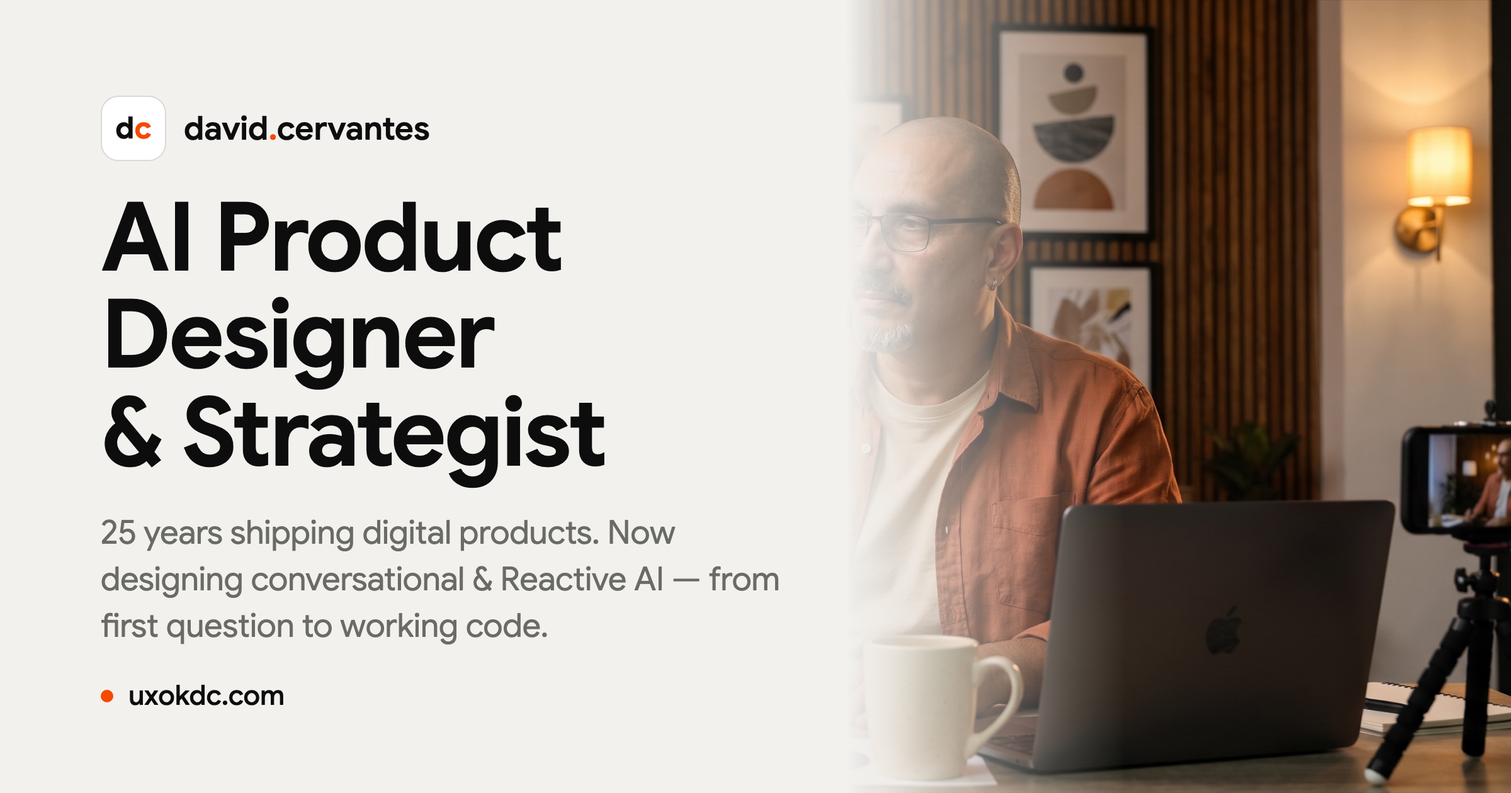
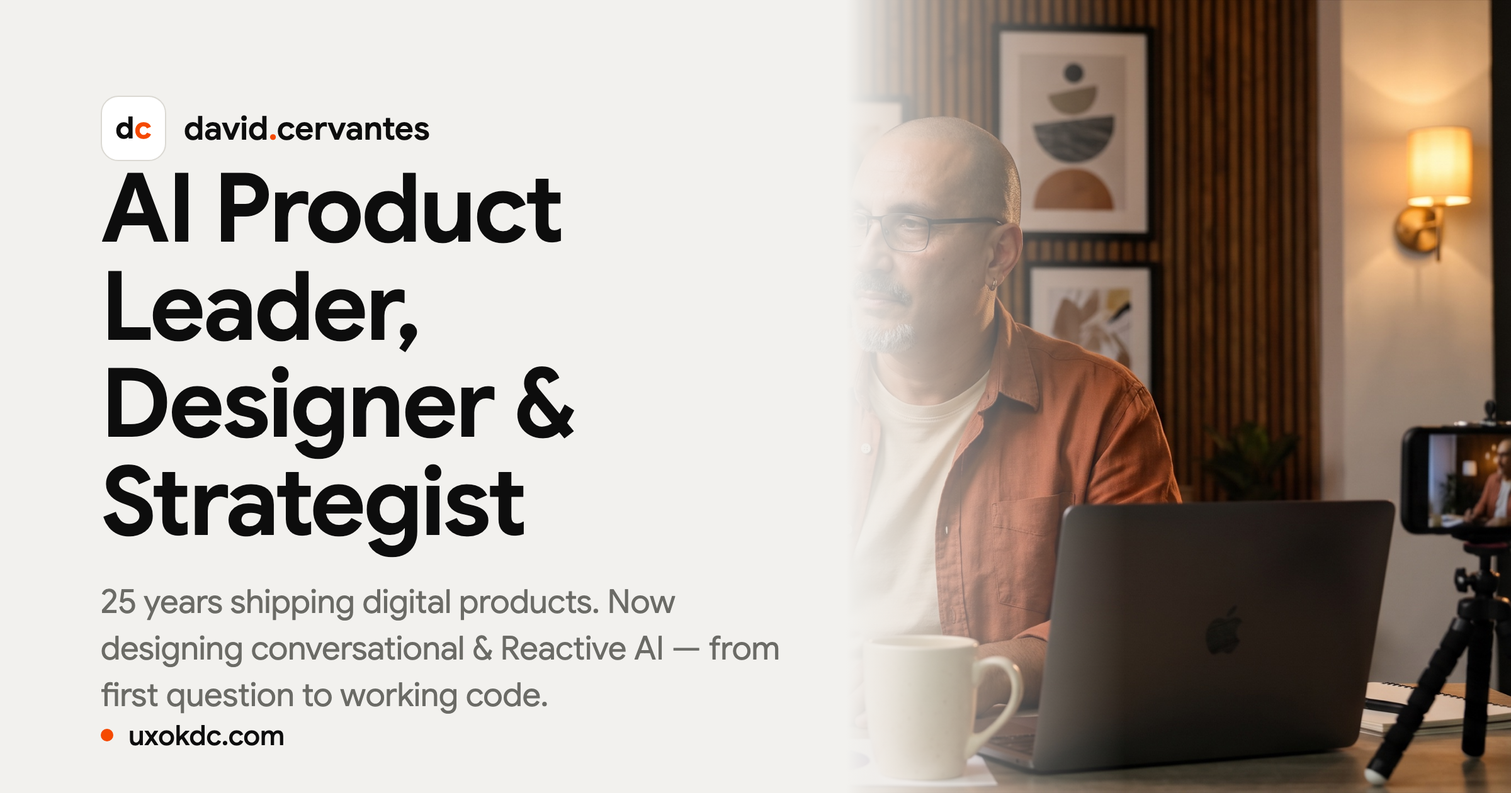
Retitle: AI Product Leader, Designer & Strategist across content, SEO, OG cards
New title applied to all page copy (wordmarks, hero labels), SEO titles/
descriptions, JSON-LD jobTitle, OG card images, and llms.txt. Historical
role entries in Experience (e.g. 'UX Strategist & Digital Producer') left
intact — those are past positions, not the current title.

diff --git a/About.html b/About.html
@@ -4,8 +4,8 @@
 <meta charset="utf-8">
 <meta name="viewport" content="width=device-width, initial-scale=1">
 <!-- SEO:start (generated — do not hand-edit; run ._seo_inject.mjs) -->
-<title>About — David Cervantes · AI Product Designer &amp; Strategist</title>
-<meta name="description" content="Product designer and strategist with 25 years turning complex products into things people actually want to use. Now designing and building AI-native. Available for select engagements.">
+<title>About — David Cervantes · AI Product Leader, Designer &amp; Strategist</title>
+<meta name="description" content="AI product leader, designer and strategist with 25 years turning complex products into things people actually want to use. Now designing and building AI-native. Available for select engagements.">
 <meta name="author" content="David Cervantes">
 <meta name="robots" content="index, follow, max-snippet:-1, max-image-preview:large, max-video-preview:-1">
 <meta name="theme-color" content="#F2F1EE">
@@ -14,22 +14,22 @@
 <meta property="og:type" content="profile">
 <meta property="og:site_name" content="David Cervantes">
 <meta property="og:locale" content="en_US">
-<meta property="og:title" content="About — David Cervantes · AI Product Designer &amp; Strategist">
-<meta property="og:description" content="Product designer and strategist with 25 years turning complex products into things people actually want to use. Now designing and building AI-native. Available for select engagements.">
+<meta property="og:title" content="About — David Cervantes · AI Product Leader, Designer &amp; Strategist">
+<meta property="og:description" content="AI product leader, designer and strategist with 25 years turning complex products into things people actually want to use. Now designing and building AI-native. Available for select engagements.">
 <meta property="og:url" content="https://www.uxokdc.com/About">
 <meta property="og:image" content="https://www.uxokdc.com/assets/og/home.png">
 <meta property="og:image:secure_url" content="https://www.uxokdc.com/assets/og/home.png">
 <meta property="og:image:type" content="image/png">
 <meta property="og:image:width" content="2400">
 <meta property="og:image:height" content="1260">
-<meta property="og:image:alt" content="About — David Cervantes · AI Product Designer &amp; Strategist">
+<meta property="og:image:alt" content="About — David Cervantes · AI Product Leader, Designer &amp; Strategist">
 <meta name="twitter:card" content="summary_large_image">
 <meta name="twitter:site" content="@uxokdc">
 <meta name="twitter:creator" content="@uxokdc">
-<meta name="twitter:title" content="About — David Cervantes · AI Product Designer &amp; Strategist">
-<meta name="twitter:description" content="Product designer and strategist with 25 years turning complex products into things people actually want to use. Now designing and building AI-native. Available for select engagements.">
+<meta name="twitter:title" content="About — David Cervantes · AI Product Leader, Designer &amp; Strategist">
+<meta name="twitter:description" content="AI product leader, designer and strategist with 25 years turning complex products into things people actually want to use. Now designing and building AI-native. Available for select engagements.">
 <meta name="twitter:image" content="https://www.uxokdc.com/assets/og/home.png">
-<meta name="twitter:image:alt" content="About — David Cervantes · AI Product Designer &amp; Strategist">
+<meta name="twitter:image:alt" content="About — David Cervantes · AI Product Leader, Designer &amp; Strategist">
 <!-- SEO:end -->
 <script type="application/ld+json">
 {
@@ -38,7 +38,7 @@
   "name": "David Cervantes",
   "url": "https://www.uxokdc.com",
   "image": "https://www.uxokdc.com/assets/david.cervantes.jpg",
-  "jobTitle": "AI Product Designer & Strategist",
+  "jobTitle": "AI Product Leader, Designer & Strategist",
   "description": "AI-native product design and build across fintech, healthcare, real estate, construction, and emerging tech. 25 years of experience, now focused on conversational AI, Reactive AI, and Intent-Centered Design.",
   "email": "uxokdc@gmail.com",
   "telephone": "+1-941-993-9125",
@@ -111,7 +111,7 @@ body{margin:0;background:#F2F1EE;--font-display:'Google Sans','Outfit',ui-sans-s
   <div style="display:flex;align-items:flex-start;gap:clamp(18px,2.4vw,34px);max-width:1320px;animation:rise 0.9s ease-out both">
     <div style="display:flex;flex-direction:column;gap:clamp(24px,3vw,42px)">
       <h1 style="margin:0;font-family:var(--font-display);font-weight:600;font-size:clamp(44px,7.6vw,116px);line-height:1.02;letter-spacing:-0.03em;color:#8A8A85;text-wrap:balance">From interfaces to <span style="color:#0D0D0D">intelligent systems<span style="color:#F54900">.</span></span></h1>
-      <p style="margin:0;max-width:660px;font:400 clamp(17px,1.6vw,22px)/1.55 var(--font-sans);color:#3A3935">Product designer, user advocate, strategist. 25 years turning complex products into something people actually use. Now designing AI-native, end to end.</p>
+      <p style="margin:0;max-width:660px;font:400 clamp(17px,1.6vw,22px)/1.55 var(--font-sans);color:#3A3935">AI product leader, designer, and strategist. 25 years turning complex products into something people actually use. Now designing AI-native, end to end.</p>
     </div>
   </div>
 </div>
@@ -166,7 +166,7 @@ body{margin:0;background:#F2F1EE;--font-display:'Google Sans','Outfit',ui-sans-s
 <!-- ── FOOTER ── -->
 <div style="position:relative;background:#0D0D0D;color:#F2F1EE;padding:48px;overflow:hidden" data-screen-label="Footer">
   <div style="display:flex;justify-content:space-between;align-items:flex-end;flex-wrap:wrap;gap:24px 40px">
-    <div style="font-family:var(--font-display);font-weight:600;font-size:18px;color:#F2F1EE">david<span style="color:#F54900">.</span>cervantes <span style="font-weight:500;color:#8A8A85;font-size:15px;margin-left:12px">AI product designer & strategist</span></div>
+    <div style="font-family:var(--font-display);font-weight:600;font-size:18px;color:#F2F1EE">david<span style="color:#F54900">.</span>cervantes <span style="font-weight:500;color:#8A8A85;font-size:15px;margin-left:12px">AI product leader, designer & strategist</span></div>
     <div style="display:flex;align-items:center;gap:8px;font:300 15px var(--font-sans);color:#8A8A85"><span style="width:7px;height:7px;border-radius:50%;background:#2D9973;display:inline-block"></span>Available for select contract engagements</div>
   </div>
 </div>

diff --git a/Portfolio Explorations.html b/Portfolio Explorations.html
@@ -5,7 +5,7 @@
 <meta name="viewport" content="width=device-width, initial-scale=1">
 <!-- SEO:start (generated — do not hand-edit; run ._seo_inject.mjs) -->
 <title>Portfolio Explorations — David Cervantes</title>
-<meta name="description" content="Visual explorations, interface studies, and design experiments by David Cervantes — AI product designer &amp; strategist.">
+<meta name="description" content="Visual explorations, interface studies, and design experiments by David Cervantes — AI product leader, designer &amp; strategist.">
 <meta name="author" content="David Cervantes">
 <meta name="robots" content="index, follow, max-snippet:-1, max-image-preview:large, max-video-preview:-1">
 <meta name="theme-color" content="#F2F1EE">
@@ -15,7 +15,7 @@
 <meta property="og:site_name" content="David Cervantes">
 <meta property="og:locale" content="en_US">
 <meta property="og:title" content="Portfolio Explorations — David Cervantes">
-<meta property="og:description" content="Visual explorations, interface studies, and design experiments by David Cervantes — AI product designer &amp; strategist.">
+<meta property="og:description" content="Visual explorations, interface studies, and design experiments by David Cervantes — AI product leader, designer &amp; strategist.">
 <meta property="og:url" content="https://www.uxokdc.com/Portfolio%20Explorations">
 <meta property="og:image" content="https://www.uxokdc.com/assets/og/home.png">
 <meta property="og:image:secure_url" content="https://www.uxokdc.com/assets/og/home.png">
@@ -27,7 +27,7 @@
 <meta name="twitter:site" content="@uxokdc">
 <meta name="twitter:creator" content="@uxokdc">
 <meta name="twitter:title" content="Portfolio Explorations — David Cervantes">
-<meta name="twitter:description" content="Visual explorations, interface studies, and design experiments by David Cervantes — AI product designer &amp; strategist.">
+<meta name="twitter:description" content="Visual explorations, interface studies, and design experiments by David Cervantes — AI product leader, designer &amp; strategist.">
 <meta name="twitter:image" content="https://www.uxokdc.com/assets/og/home.png">
 <meta name="twitter:image:alt" content="Portfolio Explorations — David Cervantes">
 <script type="application/ld+json">
@@ -36,7 +36,7 @@
   "@type": "CollectionPage",
   "name": "Portfolio Explorations — David Cervantes",
   "url": "https://www.uxokdc.com/Portfolio%20Explorations",
-  "description": "Visual explorations, interface studies, and design experiments by David Cervantes — AI product designer & strategist.",
+  "description": "Visual explorations, interface studies, and design experiments by David Cervantes — AI product leader, designer & strategist.",
   "author": {
     "@type": "Person",
     "name": "David Cervantes",
@@ -108,7 +108,7 @@ body{margin:0;background:#e9e7e2;font-family:system-ui,sans-serif}
       </div>
       <div style="text-align:right">
         <div style="font-family:var(--font-display);font-weight:600;font-size:186px;line-height:0.9;letter-spacing:-0.035em;color:#F2F1EE">Cervantes</div>
-        <div style="font:500 20px var(--font-display);color:#F2F1EE;margin-top:16px">Senior Product Designer <span style="color:#8A8A85">2026</span></div>
+        <div style="font:500 20px var(--font-display);color:#F2F1EE;margin-top:16px">AI Product Leader, Designer & Strategist <span style="color:#8A8A85">2026</span></div>
       </div>
     </div>
   </div>
@@ -217,7 +217,7 @@ body{margin:0;background:#e9e7e2;font-family:system-ui,sans-serif}
     <div style="display:flex;justify-content:space-between;align-items:flex-end">
       <div>
         <div style="font-family:var(--font-display);font-weight:600;font-size:170px;line-height:0.9;letter-spacing:-0.035em;color:#F2F1EE">David</div>
-        <div style="font:500 17px var(--font-display);color:#8A8A85;margin-top:20px">Senior Product Designer <span style="color:#F2F1EE">2026</span></div>
+        <div style="font:500 17px var(--font-display);color:#8A8A85;margin-top:20px">AI Product Leader, Designer & Strategist <span style="color:#F2F1EE">2026</span></div>
       </div>
       <div style="text-align:right">
         <div style="font-family:var(--font-display);font-weight:600;font-size:170px;line-height:0.9;letter-spacing:-0.035em;color:#F2F1EE">Cervantes</div>
@@ -264,7 +264,7 @@ body{margin:0;background:#e9e7e2;font-family:system-ui,sans-serif}
   <header style="padding:88px 48px 64px" data-screen-label="1a hero">
     <div style="display:flex;justify-content:space-between;align-items:flex-end;gap:40px">
       <div>
-        <div style="font:500 11px var(--font-display);text-transform:uppercase;letter-spacing:0.12em;color:#8A8A85;margin-bottom:20px">Product designer &amp; UX strategist — remote, worldwide</div>
+        <div style="font:500 11px var(--font-display);text-transform:uppercase;letter-spacing:0.12em;color:#8A8A85;margin-bottom:20px">AI Product Leader, Designer &amp; Strategist — remote, worldwide</div>
         <h1 style="margin:0;font-family:var(--font-display);font-weight:600;font-size:148px;line-height:0.95;letter-spacing:-0.03em">David</h1>
         <h1 style="margin:0;font-family:var(--font-display);font-weight:600;font-size:148px;line-height:0.95;letter-spacing:-0.03em;padding-left:120px">Cervantes<span style="color:#F54900">.</span></h1>
       </div>
@@ -384,7 +384,7 @@ body{margin:0;background:#e9e7e2;font-family:system-ui,sans-serif}
       </sc-if>
     </div>
     <div style="font-family:var(--font-display);font-weight:600;font-size:150px;line-height:0.95;letter-spacing:-0.03em;color:#F2F1EE;margin:24px 0 32px">David<br>Cervantes<span style="color:#F54900">.</span></div>
-    <div style="display:flex;justify-content:space-between;font:300 12px var(--font-sans);color:#8A8A85"><span>Product designer &amp; UX strategist — 2026</span><span>Made with care, no noise.</span></div>
+    <div style="display:flex;justify-content:space-between;font:300 12px var(--font-sans);color:#8A8A85"><span>AI Product Leader, Designer &amp; Strategist — 2026</span><span>Made with care, no noise.</span></div>
   </footer>
 
 </div>

diff --git a/index.html b/index.html
@@ -4,7 +4,7 @@
 <meta charset="utf-8">
 <meta name="viewport" content="width=device-width, initial-scale=1">
 <!-- SEO:start (generated — do not hand-edit; run ._seo_inject.mjs) -->
-<title>David Cervantes — AI Product Designer &amp; Strategist</title>
+<title>David Cervantes — AI Product Leader, Designer &amp; Strategist</title>
 <meta name="description" content="25 years designing digital products — from interfaces to AI-native systems. Product strategy, UX research, design systems, and working code.">
 <meta name="author" content="David Cervantes">
 <meta name="robots" content="index, follow, max-snippet:-1, max-image-preview:large, max-video-preview:-1">
@@ -14,7 +14,7 @@
 <meta property="og:type" content="website">
 <meta property="og:site_name" content="David Cervantes">
 <meta property="og:locale" content="en_US">
-<meta property="og:title" content="David Cervantes — AI Product Designer &amp; Strategist">
+<meta property="og:title" content="David Cervantes — AI Product Leader, Designer &amp; Strategist">
 <meta property="og:description" content="25 years designing digital products — from interfaces to AI-native systems. Product strategy, UX research, design systems, and working code.">
 <meta property="og:url" content="https://www.uxokdc.com/">
 <meta property="og:image" content="https://www.uxokdc.com/assets/og/home.png">
@@ -22,14 +22,14 @@
 <meta property="og:image:type" content="image/png">
 <meta property="og:image:width" content="2400">
 <meta property="og:image:height" content="1260">
-<meta property="og:image:alt" content="David Cervantes — AI Product Designer &amp; Strategist">
+<meta property="og:image:alt" content="David Cervantes — AI Product Leader, Designer &amp; Strategist">
 <meta name="twitter:card" content="summary_large_image">
 <meta name="twitter:site" content="@uxokdc">
 <meta name="twitter:creator" content="@uxokdc">
-<meta name="twitter:title" content="David Cervantes — AI Product Designer &amp; Strategist">
+<meta name="twitter:title" content="David Cervantes — AI Product Leader, Designer &amp; Strategist">
 <meta name="twitter:description" content="25 years designing digital products — from interfaces to AI-native systems. Product strategy, UX research, design systems, and working code.">
 <meta name="twitter:image" content="https://www.uxokdc.com/assets/og/home.png">
-<meta name="twitter:image:alt" content="David Cervantes — AI Product Designer &amp; Strategist">
+<meta name="twitter:image:alt" content="David Cervantes — AI Product Leader, Designer &amp; Strategist">
 <script type="application/ld+json">
 {
   "@context": "https://schema.org",
@@ -37,7 +37,7 @@
   "name": "David Cervantes",
   "url": "https://www.uxokdc.com",
   "image": "https://www.uxokdc.com/assets/og/home.png",
-  "jobTitle": "AI Product Designer & Strategist",
+  "jobTitle": "AI Product Leader, Designer & Strategist",
   "description": "25 years designing digital products — from interfaces to AI-native systems. Product strategy, UX research, design systems, and working code.",
   "email": "uxokdc@gmail.com",
   "sameAs": [
@@ -233,7 +233,7 @@ body{margin:0;background:#F2F1EE;--font-display:'Google Sans','Outfit',ui-sans-s
 <!-- ── FOOTER ── -->
 <div style="position:relative;background:#0D0D0D;color:#F2F1EE;padding:48px;overflow:hidden" data-screen-label="Footer">
   <div style="display:flex;justify-content:space-between;align-items:flex-end;flex-wrap:wrap;gap:24px 40px">
-    <div style="font-family:var(--font-display);font-weight:600;font-size:18px;color:#F2F1EE;line-height:1.4">david<span style="color:#F54900">.</span>cervantes<br><span style="font-weight:500;color:#8A8A85;font-size:15px">AI product designer & strategist</span></div>
+    <div style="font-family:var(--font-display);font-weight:600;font-size:18px;color:#F2F1EE;line-height:1.4">david<span style="color:#F54900">.</span>cervantes<br><span style="font-weight:500;color:#8A8A85;font-size:15px">AI product leader, designer & strategist</span></div>
     <sc-if value="{{ showAvailability }}" hint-placeholder-val="{{ true }}">
       <div style="display:flex;align-items:center;gap:8px;font:300 15px var(--font-sans);color:#8A8A85"><span style="width:7px;height:7px;border-radius:50%;background:#2D9973;display:inline-block"></span>Available for select contract engagements</div>
     </sc-if>
@@ -246,7 +246,7 @@ class Component extends DCLogic {
 
   static LINES = [
     { text: ["AI-native", "products.", "End to end."], big: true },
-    { text: "AI product designer + strategist. 25 years shipping. Now designing conversational and Reactive AI — from first question to working code.", big: false }
+    { text: "AI product leader, designer & strategist. 25 years shipping. Now designing conversational and Reactive AI — from first question to working code.", big: false }
   ];
 
   componentDidMount() {

diff --git a/Experience.html b/Experience.html
@@ -37,7 +37,7 @@
   "name": "David Cervantes",
   "url": "https://www.uxokdc.com",
   "image": "https://www.uxokdc.com/assets/og/home.png",
-  "jobTitle": "AI Product Designer & Strategist",
+  "jobTitle": "AI Product Leader, Designer & Strategist",
   "description": "Career timeline: design leadership across AI, SaaS, e-commerce, fintech, healthcare, and enterprise — from IC to strategy over 25 years.",
   "email": "uxokdc@gmail.com",
   "sameAs": [
@@ -105,7 +105,7 @@ body{margin:0;background:#F2F1EE;--font-display:'Google Sans','Outfit',ui-sans-s
   <article style="display:grid;grid-template-columns:200px 1fr;gap:clamp(24px,4vw,64px);padding:clamp(38px,4.5vw,60px) 0;border-top:0.5px solid #D8D6D0;animation:rise 0.7s ease-out both;animation-timeline:view();animation-range:entry 0% entry 40%">
     <div style="font:500 15px var(--font-sans);color:#8A8A85">2023 — Present</div>
     <div style="display:flex;flex-direction:column;align-items:flex-end;text-align:right;gap:16px">
-      <h2 style="margin:0;font-family:var(--font-display);font-weight:600;font-size:clamp(22px,2.5vw,33px);line-height:1.1;letter-spacing:-0.01em;color:#0D0D0D">AI Product Designer &amp; Strategist <span style="color:#8A8A85;font-weight:500">— Independent practice</span></h2>
+      <h2 style="margin:0;font-family:var(--font-display);font-weight:600;font-size:clamp(22px,2.5vw,33px);line-height:1.1;letter-spacing:-0.01em;color:#0D0D0D">AI Product Leader, Designer &amp; Strategist <span style="color:#8A8A85;font-weight:500">— Independent practice</span></h2>
       <p style="margin:0;max-width:520px;font:400 clamp(15px,1.4vw,18px)/1.55 var(--font-sans);color:#8A8A85">AI-native product design and build across fintech, real estate, construction, travel, and blockchain — problem definition through working prototypes, on an AI-assisted toolchain.</p>
     </div>
   </article>
@@ -191,7 +191,7 @@ body{margin:0;background:#F2F1EE;--font-display:'Google Sans','Outfit',ui-sans-s
 <!-- ── FOOTER ── -->
 <div style="position:relative;background:#0D0D0D;color:#F2F1EE;padding:48px;overflow:hidden" data-screen-label="Footer">
   <div style="display:flex;justify-content:space-between;align-items:flex-end;flex-wrap:wrap;gap:24px 40px">
-    <div style="font-family:var(--font-display);font-weight:600;font-size:18px;color:#F2F1EE">david<span style="color:#F54900">.</span>cervantes <span style="font-weight:500;color:#8A8A85;font-size:15px;margin-left:12px">AI product designer & strategist</span></div>
+    <div style="font-family:var(--font-display);font-weight:600;font-size:18px;color:#F2F1EE">david<span style="color:#F54900">.</span>cervantes <span style="font-weight:500;color:#8A8A85;font-size:15px;margin-left:12px">AI product leader, designer & strategist</span></div>
     <div style="display:flex;align-items:center;gap:8px;font:300 15px var(--font-sans);color:#8A8A85"><span style="width:7px;height:7px;border-radius:50%;background:#2D9973;display:inline-block"></span>Available for select contract engagements</div>
   </div>
 </div>

diff --git a/support.js b/support.js
@@ -169,13 +169,13 @@
 
   const PAGE_META = {
     'index.html': {
-      title: 'David Cervantes — AI Product Designer & Strategist',
+      title: 'David Cervantes — AI Product Leader, Designer & Strategist',
       description: '25 years designing digital products — from interfaces to AI-native systems. Product strategy, UX research, design systems, and working code.',
       type: 'website',
     },
     'About.html': {
       title: 'About — David Cervantes',
-      description: 'Product designer and strategist with 25 years turning complex products into things people actually want to use. Now designing and building AI-native.',
+      description: 'AI product leader, designer and strategist with 25 years turning complex products into things people actually want to use. Now designing and building AI-native.',
       type: 'profile',
     },
     'Experience.html': {
@@ -308,7 +308,7 @@
       '@type': 'Person',
       name: AUTHOR,
       url: SITE_ORIGIN,
-      jobTitle: 'AI Product Designer & Strategist',
+      jobTitle: 'AI Product Leader, Designer & Strategist',
       description: '25 years designing digital products — from interfaces to AI-native systems.',
       email: 'uxokdc@gmail.com',
       sameAs: [
@@ -328,7 +328,7 @@
       name: 'David Cervantes — Portfolio',
       url: SITE_ORIGIN,
       author: { '@type': 'Person', name: AUTHOR },
-      description: 'Portfolio of David Cervantes, AI product designer and strategist.',
+      description: 'Portfolio of David Cervantes, AI product leader, designer and strategist.',
     };
 
     const breadcrumbLD = {

diff --git a/Construct AI Case Study.html b/Construct AI Case Study.html
@@ -209,7 +209,7 @@ body{margin:0;background:#F2F1EE;--font-display:'Google Sans','Outfit',ui-sans-s
 <!-- ── FOOTER ── -->
 <div style="position:relative;background:#0D0D0D;color:#F2F1EE;padding:48px;overflow:hidden" data-screen-label="Footer">
   <div style="display:flex;justify-content:space-between;align-items:flex-end;flex-wrap:wrap;gap:24px 40px">
-    <div style="font-family:var(--font-display);font-weight:600;font-size:18px;color:#F2F1EE">david<span style="color:#F54900">.</span>cervantes <span style="font-weight:500;color:#8A8A85;font-size:15px;margin-left:12px">AI product designer &amp; strategist</span></div>
+    <div style="font-family:var(--font-display);font-weight:600;font-size:18px;color:#F2F1EE">david<span style="color:#F54900">.</span>cervantes <span style="font-weight:500;color:#8A8A85;font-size:15px;margin-left:12px">AI product leader, designer &amp; strategist</span></div>
     <div style="display:flex;align-items:center;gap:8px;font:300 15px var(--font-sans);color:#8A8A85"><span style="width:7px;height:7px;border-radius:50%;background:#2D9973;display:inline-block" aria-hidden="true"></span>Available for select contract engagements</div>
   </div>
 </div>

diff --git a/TintoProps Case Study.html b/TintoProps Case Study.html
@@ -209,7 +209,7 @@ body{margin:0;background:#F2F1EE;--font-display:'Google Sans','Outfit',ui-sans-s
 <!-- ── FOOTER ── -->
 <div style="position:relative;background:#0D0D0D;color:#F2F1EE;padding:48px;overflow:hidden" data-screen-label="Footer">
   <div style="display:flex;justify-content:space-between;align-items:flex-end;flex-wrap:wrap;gap:24px 40px">
-    <div style="font-family:var(--font-display);font-weight:600;font-size:18px;color:#F2F1EE">david<span style="color:#F54900">.</span>cervantes <span style="font-weight:500;color:#8A8A85;font-size:15px;margin-left:12px">AI product designer &amp; strategist</span></div>
+    <div style="font-family:var(--font-display);font-weight:600;font-size:18px;color:#F2F1EE">david<span style="color:#F54900">.</span>cervantes <span style="font-weight:500;color:#8A8A85;font-size:15px;margin-left:12px">AI product leader, designer &amp; strategist</span></div>
     <div style="display:flex;align-items:center;gap:8px;font:300 15px var(--font-sans);color:#8A8A85"><span style="width:7px;height:7px;border-radius:50%;background:#2D9973;display:inline-block" aria-hidden="true"></span>Available for select contract engagements</div>
   </div>
 </div>

diff --git a/TraderVault LM Case Study.html b/TraderVault LM Case Study.html
@@ -209,7 +209,7 @@ body{margin:0;background:#F2F1EE;--font-display:'Google Sans','Outfit',ui-sans-s
 <!-- ── FOOTER ── -->
 <div style="position:relative;background:#0D0D0D;color:#F2F1EE;padding:48px;overflow:hidden" data-screen-label="Footer">
   <div style="display:flex;justify-content:space-between;align-items:flex-end;flex-wrap:wrap;gap:24px 40px">
-    <div style="font-family:var(--font-display);font-weight:600;font-size:18px;color:#F2F1EE">david<span style="color:#F54900">.</span>cervantes <span style="font-weight:500;color:#8A8A85;font-size:15px;margin-left:12px">AI product designer &amp; strategist</span></div>
+    <div style="font-family:var(--font-display);font-weight:600;font-size:18px;color:#F2F1EE">david<span style="color:#F54900">.</span>cervantes <span style="font-weight:500;color:#8A8A85;font-size:15px;margin-left:12px">AI product leader, designer &amp; strategist</span></div>
     <div style="display:flex;align-items:center;gap:8px;font:300 15px var(--font-sans);color:#8A8A85"><span style="width:7px;height:7px;border-radius:50%;background:#2D9973;display:inline-block" aria-hidden="true"></span>Available for select contract engagements</div>
   </div>
 </div>

diff --git a/AI Genius Case Study.html b/AI Genius Case Study.html
@@ -262,7 +262,7 @@ body{margin:0;background:#F2F1EE;--font-display:'Google Sans','Outfit',ui-sans-s
 <!-- ── FOOTER ── -->
 <div style="position:relative;background:#0D0D0D;color:#F2F1EE;padding:48px;overflow:hidden" data-screen-label="Footer">
   <div style="display:flex;justify-content:space-between;align-items:flex-end;flex-wrap:wrap;gap:24px 40px">
-    <div style="font-family:var(--font-display);font-weight:600;font-size:18px;color:#F2F1EE">david<span style="color:#F54900">.</span>cervantes <span style="font-weight:500;color:#8A8A85;font-size:15px;margin-left:12px">AI product designer & strategist</span></div>
+    <div style="font-family:var(--font-display);font-weight:600;font-size:18px;color:#F2F1EE">david<span style="color:#F54900">.</span>cervantes <span style="font-weight:500;color:#8A8A85;font-size:15px;margin-left:12px">AI product leader, designer & strategist</span></div>
     <div style="display:flex;align-items:center;gap:8px;font:300 15px var(--font-sans);color:#8A8A85"><span style="width:7px;height:7px;border-radius:50%;background:#2D9973;display:inline-block"></span>Available for select contract engagements</div>
   </div>
 </div>

diff --git a/NESTRE Case Study.html b/NESTRE Case Study.html
@@ -260,7 +260,7 @@ body{margin:0;background:#F2F1EE;--font-display:'Google Sans','Outfit',ui-sans-s
 <!-- ── FOOTER ── -->
 <div style="position:relative;background:#0D0D0D;color:#F2F1EE;padding:48px;overflow:hidden" data-screen-label="Footer">
   <div style="display:flex;justify-content:space-between;align-items:flex-end;flex-wrap:wrap;gap:24px 40px">
-    <div style="font-family:var(--font-display);font-weight:600;font-size:18px;color:#F2F1EE">david<span style="color:#F54900">.</span>cervantes <span style="font-weight:500;color:#8A8A85;font-size:15px;margin-left:12px">AI product designer & strategist</span></div>
+    <div style="font-family:var(--font-display);font-weight:600;font-size:18px;color:#F2F1EE">david<span style="color:#F54900">.</span>cervantes <span style="font-weight:500;color:#8A8A85;font-size:15px;margin-left:12px">AI product leader, designer & strategist</span></div>
     <div style="display:flex;align-items:center;gap:8px;font:300 15px var(--font-sans);color:#8A8A85"><span style="width:7px;height:7px;border-radius:50%;background:#2D9973;display:inline-block"></span>Available for select contract engagements</div>
   </div>
 </div>

diff --git a/ULTA BEAUTY Case Study.html b/ULTA BEAUTY Case Study.html
@@ -260,7 +260,7 @@ body{margin:0;background:#F2F1EE;--font-display:'Google Sans','Outfit',ui-sans-s
 <!-- ── FOOTER ── -->
 <div style="position:relative;background:#0D0D0D;color:#F2F1EE;padding:48px;overflow:hidden" data-screen-label="Footer">
   <div style="display:flex;justify-content:space-between;align-items:flex-end;flex-wrap:wrap;gap:24px 40px">
-    <div style="font-family:var(--font-display);font-weight:600;font-size:18px;color:#F2F1EE">david<span style="color:#F54900">.</span>cervantes <span style="font-weight:500;color:#8A8A85;font-size:15px;margin-left:12px">AI product designer & strategist</span></div>
+    <div style="font-family:var(--font-display);font-weight:600;font-size:18px;color:#F2F1EE">david<span style="color:#F54900">.</span>cervantes <span style="font-weight:500;color:#8A8A85;font-size:15px;margin-left:12px">AI product leader, designer & strategist</span></div>
     <div style="display:flex;align-items:center;gap:8px;font:300 15px var(--font-sans);color:#8A8A85"><span style="width:7px;height:7px;border-radius:50%;background:#2D9973;display:inline-block"></span>Available for select contract engagements</div>
   </div>
 </div>

diff --git a/ULTRA Case Study.html b/ULTRA Case Study.html
@@ -260,7 +260,7 @@ body{margin:0;background:#F2F1EE;--font-display:'Google Sans','Outfit',ui-sans-s
 <!-- ── FOOTER ── -->
 <div style="position:relative;background:#0D0D0D;color:#F2F1EE;padding:48px;overflow:hidden" data-screen-label="Footer">
   <div style="display:flex;justify-content:space-between;align-items:flex-end;flex-wrap:wrap;gap:24px 40px">
-    <div style="font-family:var(--font-display);font-weight:600;font-size:18px;color:#F2F1EE">david<span style="color:#F54900">.</span>cervantes <span style="font-weight:500;color:#8A8A85;font-size:15px;margin-left:12px">AI product designer & strategist</span></div>
+    <div style="font-family:var(--font-display);font-weight:600;font-size:18px;color:#F2F1EE">david<span style="color:#F54900">.</span>cervantes <span style="font-weight:500;color:#8A8A85;font-size:15px;margin-left:12px">AI product leader, designer & strategist</span></div>
     <div style="display:flex;align-items:center;gap:8px;font:300 15px var(--font-sans);color:#8A8A85"><span style="width:7px;height:7px;border-radius:50%;background:#2D9973;display:inline-block"></span>Available for select contract engagements</div>
   </div>
 </div>
